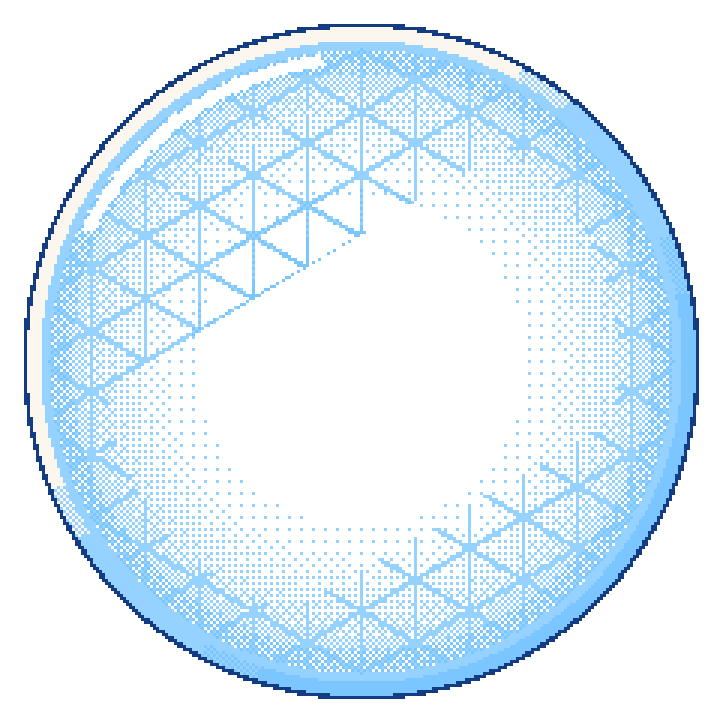
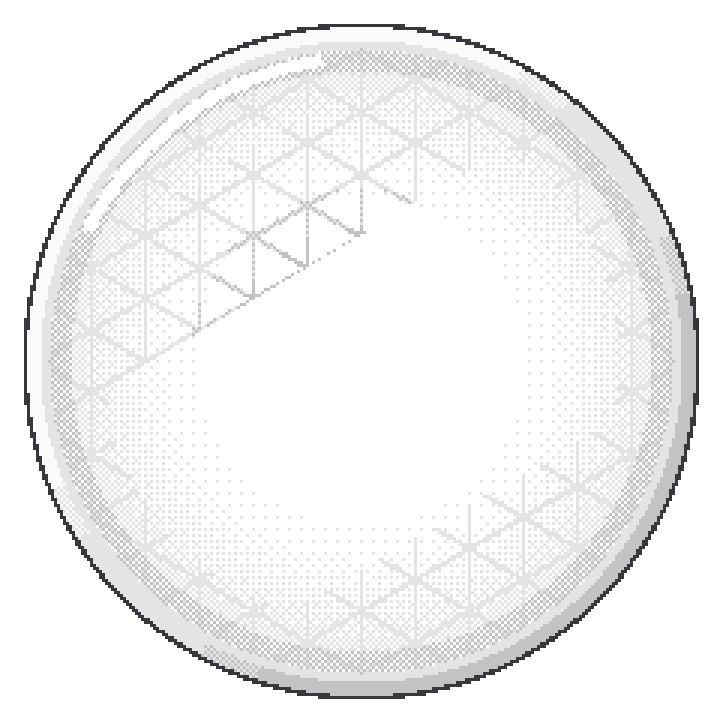
Redoma de invulnerável com cor própria: a arte fica em tons de cinza e o jogo a tinge com deus.escudo_cor (violeta, diferente do azul da aura) (tools/t153_cor_da_redoma.py)

Changed region(s): [[0.0306, 0.0306, 0.9778, 0.9778]]

diff --git a/tools/arte_deus.py b/tools/arte_deus.py
@@ -263,10 +263,11 @@ def anim_aura():
 
 
 def anim_escudo():
-    """redoma de luz: aro claro com contorno azul, borda com xadrez (a curva da bolha), treliça triangular que
+    """redoma de luz em tons de cinza (a cor vem do jogo, deus.escudo_cor): aro claro com contorno escuro, borda com xadrez (a curva da bolha), treliça triangular que
     cintila passando pela bolha e um brilho no alto à esquerda; o meio fica quase limpo para ver o olho."""
     q = []
     R = 110
+    g1, g2, g3, g4, g0 = (150, 150, 150), (195, 195, 195), (228, 228, 228), (250, 250, 250), (55, 55, 60)
     for i in range(6):
         t = Tela(240)
         d, a = t.d(), t.ang()
@@ -279,21 +280,21 @@ def anim_escudo():
             linha |= np.abs(u - np.round(u)) < 0.045
         faixa = np.sin((x * 0.6 + y) / 26.0 - i * math.pi / 3) > 0.55
         trelica = dentro & linha & (faixa | (d > R * 0.78))
-        t.pinta(trelica, t.rampa(0.3 + 0.7 * d / R, [C['azul1'], C['azul2'], C['ceu1']]))
+        t.pinta(trelica, t.rampa(0.3 + 0.7 * d / R, [g1, g2, g3]))
         # brilho de bolha (fresnel): pontilhado ordenado que adensa para a borda; o meio fica limpo
         bayer = np.array([[0, 8, 2, 10], [12, 4, 14, 6], [3, 11, 1, 9], [15, 7, 13, 5]]) / 16.0
         lim = bayer[t.yy.astype(int) % 4, t.xx.astype(int) % 4]
         dens = np.clip((d / R - 0.5) / 0.5, 0, 1) ** 1.6 * 0.8
-        t.pinta(dentro & (lim < dens), t.rampa(d / R, [C['azul2'], C['ceu1']]))
+        t.pinta(dentro & (lim < dens), t.rampa(d / R, [g2, g3]))
         # borda da bolha em xadrez
-        t.pinta(dentro & (d > R - 13) & t.xadrez(i % 2), C['azul2'])
-        t.pinta(dentro & (d > R - 6), C['ceu1'])
+        t.pinta(dentro & (d > R - 13) & t.xadrez(i % 2), g2)
+        t.pinta(dentro & (d > R - 6), g3)
         # aro e contorno
         aro = (d >= R - 3) & (d < R + 1.5)
-        t.pinta(aro, t.rampa(0.5 + 0.5 * np.cos(a + 2.3), [C['azul2'], C['ceu1'], C['pena4']]))
-        t.pinta((d >= R + 1.5) & (d < R + 3), C['azul0'])
+        t.pinta(aro, t.rampa(0.5 + 0.5 * np.cos(a + 2.3), [g2, g3, g4]))
+        t.pinta((d >= R + 1.5) & (d < R + 3), g0)
         # brilho no alto à esquerda
-        t.pinta((d > R - 11) & (d < R - 7) & (a > -2.7) & (a < -1.7), C['branco'])
+        t.pinta((d > R - 11) & (d < R - 7) & (a > -2.7) & (a < -1.7), (255, 255, 255))
         q.append(t.img())
     salva_anim(q, os.path.join(D, 'escudo'), 'idle')
 

diff --git a/tools/t153_cor_da_redoma.py b/tools/t153_cor_da_redoma.py
@@ -1,0 +1,23 @@
+"""Tarefa 153: a redoma de invulnerável ganha cor própria.
+
+A arte da redoma passa a ser em tons de cinza (tools/arte_deus.py) e o jogo a tinge com deus.escudo_cor (violeta,
+diferente do azul da aura), aplicada no evento que já faz a redoma pulsar.
+Só adiciona; se a variável já existe, fica com o valor atual.
+Rodar uma vez:  python3 tools/t153_cor_da_redoma.py
+"""
+from gd_mig import *
+
+ids = Ids('t153')
+
+
+def migra(d):
+    o = {x['name']: x for x in d['objects']}
+    poe_vars(ids, o['deus']['variables'], 'deus', [('escudo_cor', '190;130;255')])
+    sinal = acha(acha(folha(d, 'InimigosParaiso')['events'], 'Deus')['events'], 'Sinal de vulnerável')
+    pulsa = next(e for e in sinal['events']
+                 if '"OpacityCapability::OpacityBehavior::SetValue"}, "parameters": ["deus_escudo"' in json.dumps(e['actions']))
+    pulsa['actions'].append(X('ChangeColor', 'deus_escudo', 'deus.escudo_cor'))
+
+
+if __name__ == '__main__':
+    roda(migra, lambda d: '"deus_escudo", "deus.escudo_cor"' in json.dumps(acha(folha(d, 'InimigosParaiso')['events'], 'Deus')), 't153')

diff --git a/tests/test_redoma_e_particulas.py b/tests/test_redoma_e_particulas.py
@@ -43,6 +43,15 @@ class RedomaEParticulas(unittest.TestCase):
         self.assertIn('"Create"}, "parameters": ["", "escudo_quebra"', a)
         self.assertIn('escudo_opacidade', tx(sinal))
 
+    def test_cor_da_redoma(self):
+        """a arte é neutra (cinzas) e a cor vem de deus.escudo_cor, que dá para trocar no GDevelop (t153)."""
+        self.assertIn('escudo_cor', self.v('deus'))
+        sinal = tx(m.acha(self.deus['events'], 'Sinal de vulnerável'))
+        self.assertIn('"ChangeColor"}, "parameters": ["deus_escudo", "deus.escudo_cor"]', sinal)
+        a = np.array(Image.open(os.path.join(RAIZ, 'assets/inimigos/ceu/deus/escudo/idle_00.png')).convert('RGBA'))
+        px = a[a[:, :, 3] > 0][:, :3].astype(int)
+        self.assertLessEqual(int((px.max(1) - px.min(1)).max()), 12, 'só tons de cinza, para o tingimento funcionar')
+
     def test_redoma_segura_as_balas(self):
         bloqueia = [e for e in self.evs if '"CollisionNP"}, "parameters": ["projetil", "deus_escudo"' in tx(e.get('conditions', []))]
         self.assertTrue(bloqueia)
